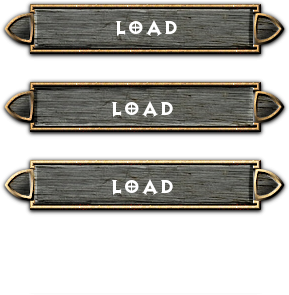
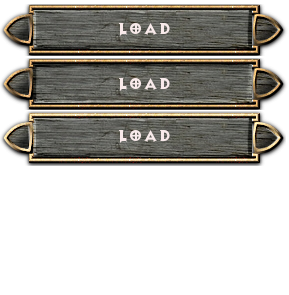
implimentatin of the mainmenu

diff --git a/src/GameMenu.cpp b/src/GameMenu.cpp
@@ -13,6 +13,9 @@ namespace tok {
         SetButtons();
         InitializeButtons();
 
+        backgroundImage = std::make_shared<Sprite>(csdl_setup->GetRenderer(),"assets/wallpaper.png",0,0,1024,768, CameraX, CameraY);
+
+
 
     }
 
@@ -44,74 +47,78 @@ namespace tok {
         // to place the buttons right to the center of the screen ( if we assume that the dimensions is 1024 x 768 )
         //we divide 1024/2 and divide the button image width with 2, and substruct the result with 512 ( the half
         //of the width screen , so  (1024/2 = 512, 290/2 = 145 , 512 - 145 = 367 )
-        newGameButton = std::make_shared<Sprite>(csdl_setup->GetRenderer(), 0, Buttons, "assets/newgame1.png",
-                                                 367,300,CameraX,CameraY);
+        menuButtons[ NEWGAME ] = std::make_shared<Sprite>(csdl_setup->GetRenderer(), 0, Buttons, "assets/newgame.png",
+                                                 367,456,CameraX,CameraY);
 
-        loadGameButton = std::make_shared<Sprite>(csdl_setup->GetRenderer(), 0, Buttons, "assets/loadgame.png",
-                                                 367,370,CameraX,CameraY);
+        menuButtons[ LOADGAME ]  = std::make_shared<Sprite>(csdl_setup->GetRenderer(), 0, Buttons, "assets/loadgame.png",
+                                                 367,522,CameraX,CameraY);
 
-        exitGameButton = std::make_shared<Sprite>(csdl_setup->GetRenderer(), 0, Buttons, "assets/exitgame.png",
-                                                 367,440,CameraX,CameraY);
+        menuButtons[ EXITGAME ]  = std::make_shared<Sprite>(csdl_setup->GetRenderer(), 0, Buttons, "assets/exitgame.png",
+                                                 367,588,CameraX,CameraY);
     }
 
     void GameMenu::Render() {
-        newGameButton->DrawSteady();
-//        loadGameButton->DrawSteady();
-//        exitGameButton->DrawSteady();
+        backgroundImage->DrawSteady();
+        for (auto button : menuButtons) {
+            button->DrawSteady();
+        }
     }
 
     void GameMenu::Update() {
 
-        if (csdl_setup->GetMainEvent()->type == SDL_MOUSEMOTION ||
-            csdl_setup->GetMainEvent()->type == SDL_MOUSEBUTTONDOWN ||
-            csdl_setup->GetMainEvent()->type == SDL_MOUSEBUTTONUP) {
+        for (auto button : menuButtons) {
 
-            int x, y;
-            SDL_GetMouseState(&x,&y);
+            if (csdl_setup->GetMainEvent()->type == SDL_MOUSEMOTION ||
+                csdl_setup->GetMainEvent()->type == SDL_MOUSEBUTTONDOWN ||
+                csdl_setup->GetMainEvent()->type == SDL_MOUSEBUTTONUP) {
 
-            //Check if mouse is in button
-            bool inside = true;
+                int x, y;
+                SDL_GetMouseState(&x, &y);
 
-            //Mouse is left of the button
-            if (x < newGameButton->GetRectX()) {
-                inside = false;
-            }
+                //Check if mouse is in button
+                bool inside = true;
 
-            //Mouse is right of the button
-            else if (x > newGameButton->GetRectY() + BUTTON_WIDTH) {
-                inside = false;
-            }
-
-            //Mouse above the button
-            else if ( y < newGameButton->GetRectY()) {
-                inside = false;
-            }
-
-            //Mouse below the button
-            else if (y > newGameButton->GetRectY() + BUTTON_HEIGHT) {
-                inside = false;
-            }
-
-            if (!inside) {
-                newGameButton->SetSpriteType(DEFAULT_BUTTON);
-            }
-
-            //Mouse is inside the button
-            else {
-
-
-                switch (csdl_setup->GetMainEvent()->type) {
-
-                    case SDL_MOUSEMOTION:
-                        newGameButton->SetSpriteType(MOUSEOVER_BUTTON);
-                        break;
-                    case SDL_MOUSEBUTTONDOWN:
-                        newGameButton->SetSpriteType(PRESSED_BUTTON);
-                        break;
-
+                //Mouse is left of the button
+                if (x < button->GetRectX()) {
+                    inside = false;
                 }
-            }
 
+                    //Mouse is right of the button
+                else if (x > button->GetRectY() + BUTTON_WIDTH) {
+                    inside = false;
+                }
+
+                    //Mouse above the button
+                else if (y < button->GetRectY()) {
+                    inside = false;
+                }
+
+                    //Mouse below the button
+                else if (y > button->GetRectY() + BUTTON_HEIGHT) {
+                    inside = false;
+                }
+
+                if (!inside) {
+                    button->SetSpriteType(DEFAULT_BUTTON);
+                }
+
+                    //Mouse is inside the button
+                else {
+
+
+                    switch (csdl_setup->GetMainEvent()->type) {
+
+                        case SDL_MOUSEMOTION:
+                            button->SetSpriteType(MOUSEOVER_BUTTON);
+                            break;
+                        case SDL_MOUSEBUTTONDOWN:
+                            button->SetSpriteType(PRESSED_BUTTON);
+                            break;
+
+                    }
+                }
+
+            }
         }
 
     }

diff --git a/src/GameMenu.h b/src/GameMenu.h
@@ -16,6 +16,12 @@ enum {
     PRESSED_BUTTON
 };
 
+enum {
+    NEWGAME,
+    LOADGAME,
+    EXITGAME
+};
+
 const int BUTTON_WIDTH = 290;
 const int BUTTON_HEIGHT = 56;
 
@@ -26,9 +32,8 @@ namespace tok {
         void SetButtons();
         void InitializeButtons();
         std::shared_ptr<SdlInitializer> csdl_setup;
-        std::shared_ptr<Sprite> newGameButton;
-        std::shared_ptr<Sprite> loadGameButton;
-        std::shared_ptr<Sprite> exitGameButton;
+        std::shared_ptr<Sprite> backgroundImage;
+
         double *CameraX;
         double *CameraY;
 
@@ -36,6 +41,7 @@ namespace tok {
         int *MouseY;
 
         SDL_Rect Buttons[3];
+        std::shared_ptr<Sprite> menuButtons[3];
 
     public:
         GameMenu(std::shared_ptr<SdlInitializer> passed_csdl_setup, double *passedCameraX, double *passedCameraY,int *passedMouseX, int *passedMouseY);

diff --git a/src/Locamap.cpp b/src/Locamap.cpp
@@ -67,7 +67,7 @@ namespace tok {
 
     void Localmap::SetTiles() {
 
-        std::ifstream map("assets/localmap.map");
+        std::ifstream map("maps/localmap.map");
 
 
         int tileType;

diff --git a/src/Locamap.h b/src/Locamap.h
@@ -10,8 +10,7 @@
  * character's enviroment!
  * Inherits from Statemachine abstract class, thus Render() and Update()
  * must be implemented!
- *
- */
+ * */
 
 
 #ifndef TOK_LOCAMAP_H
